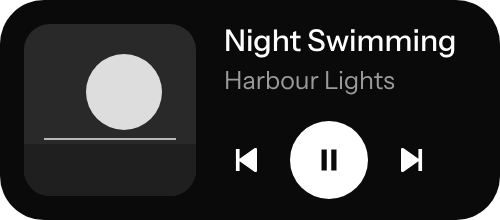
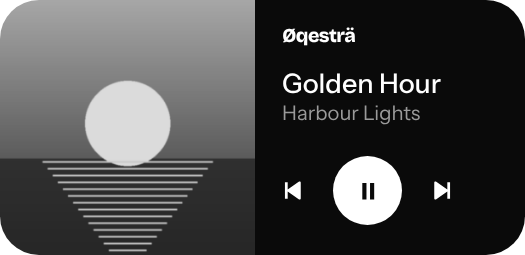
New widget design on the landing page
Claude-Session: https://claude.ai/code/session_01Tbimf6b3j9YQGpykfCmXFy

diff --git a/index.html b/index.html
@@ -98,7 +98,7 @@ section.block { padding-block: 88px; border-top: 1px solid var(--rule); display:
 .screen a { text-decoration: none; font-size: 14px; font-weight: 500; }
 /* Widgets shown on a soft "wallpaper" so the frosted glass reads as glass. */
 .widgets { margin-top: 56px; display: flex; flex-direction: column; gap: 16px; }
-.wall { border-radius: 28px; padding: 32px; background: radial-gradient(circle at 15% 20%, #C7D2E2 0, transparent 55%), radial-gradient(circle at 85% 80%, #E8DCC6 0, transparent 60%), #D9DEE6; display: grid; grid-template-columns: repeat(auto-fit, minmax(220px, 1fr)); gap: 24px 28px; }
+.wall { border-radius: 28px; padding: 32px; align-items: start; background: radial-gradient(circle at 15% 20%, #C7D2E2 0, transparent 55%), radial-gradient(circle at 85% 80%, #E8DCC6 0, transparent 60%), #D9DEE6; display: grid; grid-template-columns: repeat(auto-fit, minmax(240px, 1fr)); gap: 24px 28px; }
 .wall figure { margin: 0; display: flex; flex-direction: column; gap: 10px; min-width: 0; }
 .wall img { width: 100%; max-width: 300px; height: auto; display: block; }
 .wall figcaption { font-size: 13px; font-weight: 500; color: #2a2f37; }
@@ -166,7 +166,7 @@ footer .mark { font-size: 18px; color: var(--ink); }
           <li class="feature"><span class="n">2</span><div><h3>Its own sound engine</h3><p>Oqestra decodes your files itself and processes in 64-bit, with gapless playback. Lossless music leaves the engine bit for bit.</p></div></li>
           <li class="feature"><span class="n">3</span><div><h3>An equaliser for every pair</h3><p>Graphic or parametric, with headphone correction for about 6,000 models. Each speaker, headphone and DAC keeps its own settings.</p></div></li>
           <li class="feature"><span class="n">4</span><div><h3>A visualiser that matches the album</h3><p>Five patterns and eight themes, coloured from the cover art so every record gets its own mood. Tap it to play, pause or skip.</p></div></li>
-          <li class="feature"><span class="n">5</span><div><h3>Widgets in three styles</h3><p>White, frosted glass or monochrome, in three sizes, with play, pause and skip on your home screen.</p></div></li>
+          <li class="feature"><span class="n">5</span><div><h3>Widgets in three styles</h3><p>White, frosted glass or monochrome: album art edge to edge, in Oqestra&rsquo;s own type, with play, pause and skip.</p></div></li>
           <li class="feature"><span class="n">6</span><div><h3>Bit-perfect USB</h3><p>On Android 14 and newer, your USB DAC gets the file untouched. Open Sound to see every step from file to DAC.</p></div></li>
         </ol>
       </div>
@@ -187,9 +187,9 @@ footer .mark { font-size: 18px; color: var(--ink); }
       <div class="widgets">
         <p class="eyebrow">Home-screen widgets</p>
         <div class="wall">
-          <figure><img src="images/widget_preview_white.png" alt="White widget: album art, song, artist, and previous, pause and next buttons on white" width="250" height="110"><figcaption>White</figcaption></figure>
-          <figure><img src="images/widget_preview_glass.png" alt="Frosted glass widget: the same controls on a translucent panel tinted by the album art" width="250" height="110"><figcaption>Frosted glass</figcaption></figure>
-          <figure><img src="images/widget_preview_mono.png" alt="Monochrome widget: black background, white text and black-and-white album art" width="250" height="110"><figcaption>Monochrome</figcaption></figure>
+          <figure><img src="images/widget_preview_white.png" alt="White widget: album art edge to edge beside a white panel with the Oqestra wordmark, song, artist and playback buttons" width="350" height="170"><figcaption>White</figcaption></figure>
+          <figure><img src="images/widget_preview_glass.png" alt="Frosted glass widget: the same layout on frosted glass tinted by the album art" width="350" height="170"><figcaption>Frosted glass</figcaption></figure>
+          <figure><img src="images/widget_preview_mono.png" alt="Monochrome widget: the same layout in black, with black-and-white album art" width="350" height="170"><figcaption>Monochrome</figcaption></figure>
         </div>
       </div>
     </section>
